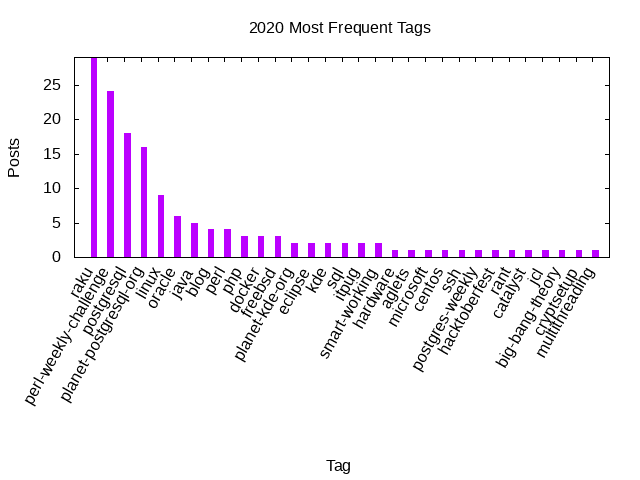
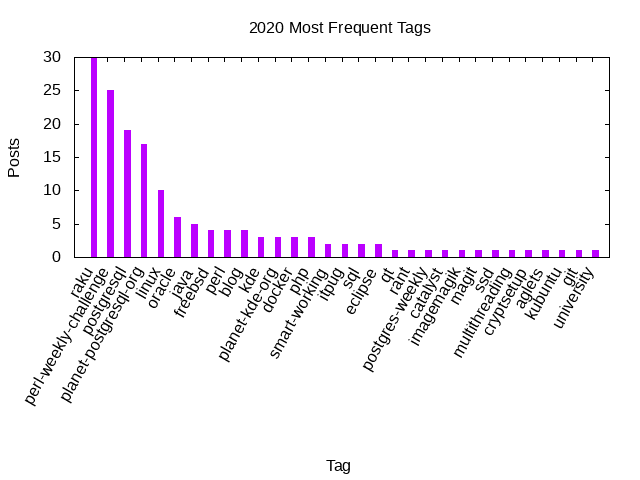
Stats update

diff --git a/_includes/stats/2020.md b/_includes/stats/2020.md
@@ -1,40 +1,40 @@
 ## 2020 (work in progress)
 
-**71 total posts** have been written on 2020.
-There have been *45 different tags* used, the most
+**75 total posts** have been written on 2020.
+There have been *46 different tags* used, the most
 popular being (sorted by number of posts):
  
-- *raku* (29 posts)  
-- *perl-weekly-challenge* (24 posts)  
-- *postgresql* (18 posts)  
-- *planet-postgresql-org* (16 posts)  
-- *linux* (9 posts)  
+- *raku* (30 posts)  
+- *perl-weekly-challenge* (25 posts)  
+- *postgresql* (19 posts)  
+- *planet-postgresql-org* (17 posts)  
+- *linux* (10 posts)  
 - *oracle* (6 posts)  
 - *java* (5 posts)  
-- *blog* (4 posts)  
+- *freebsd* (4 posts)  
 - *perl* (4 posts)  
-- *php* (3 posts)  
+- *blog* (4 posts)  
+- *kde* (3 posts)  
+- *planet-kde-org* (3 posts)  
 - *docker* (3 posts)  
-- *freebsd* (3 posts)  
-- *planet-kde-org* (2 posts)  
-- *eclipse* (2 posts)  
-- *kde* (2 posts)  
-- *sql* (2 posts)  
-- *itpug* (2 posts)  
+- *php* (3 posts)  
 - *smart-working* (2 posts)  
-- *hardware* (1 posts)  
-- *aglets* (1 posts)  
-- *microsoft* (1 posts)  
-- *centos* (1 posts)  
-- *ssh* (1 posts)  
-- *postgres-weekly* (1 posts)  
-- *hacktoberfest* (1 posts)  
+- *itpug* (2 posts)  
+- *sql* (2 posts)  
+- *eclipse* (2 posts)  
+- *qt* (1 posts)  
 - *rant* (1 posts)  
+- *postgres-weekly* (1 posts)  
 - *catalyst* (1 posts)  
-- *jcl* (1 posts)  
-- *big-bang-theory* (1 posts)  
+- *imagemagik* (1 posts)  
+- *magit* (1 posts)  
+- *ssd* (1 posts)  
+- *multithreading* (1 posts)  
 - *cryptsetup* (1 posts)  
-- *multithreading* (1 posts).<br/>
+- *aglets* (1 posts)  
+- *kubuntu* (1 posts)  
+- *git* (1 posts)  
+- *university* (1 posts).<br/>
 <br/>
 The following is the overall 2020 post ratio by month:
 <br/>
@@ -53,7 +53,7 @@ The following is the overall 2020 post ratio by tag (showing max 30 tags):
 
 <div align="right">
 <small>
-Last generated on 2020-06-08 at 18:23
+Last generated on 2020-06-15 at 11:19
 </small>
 </div>
 
